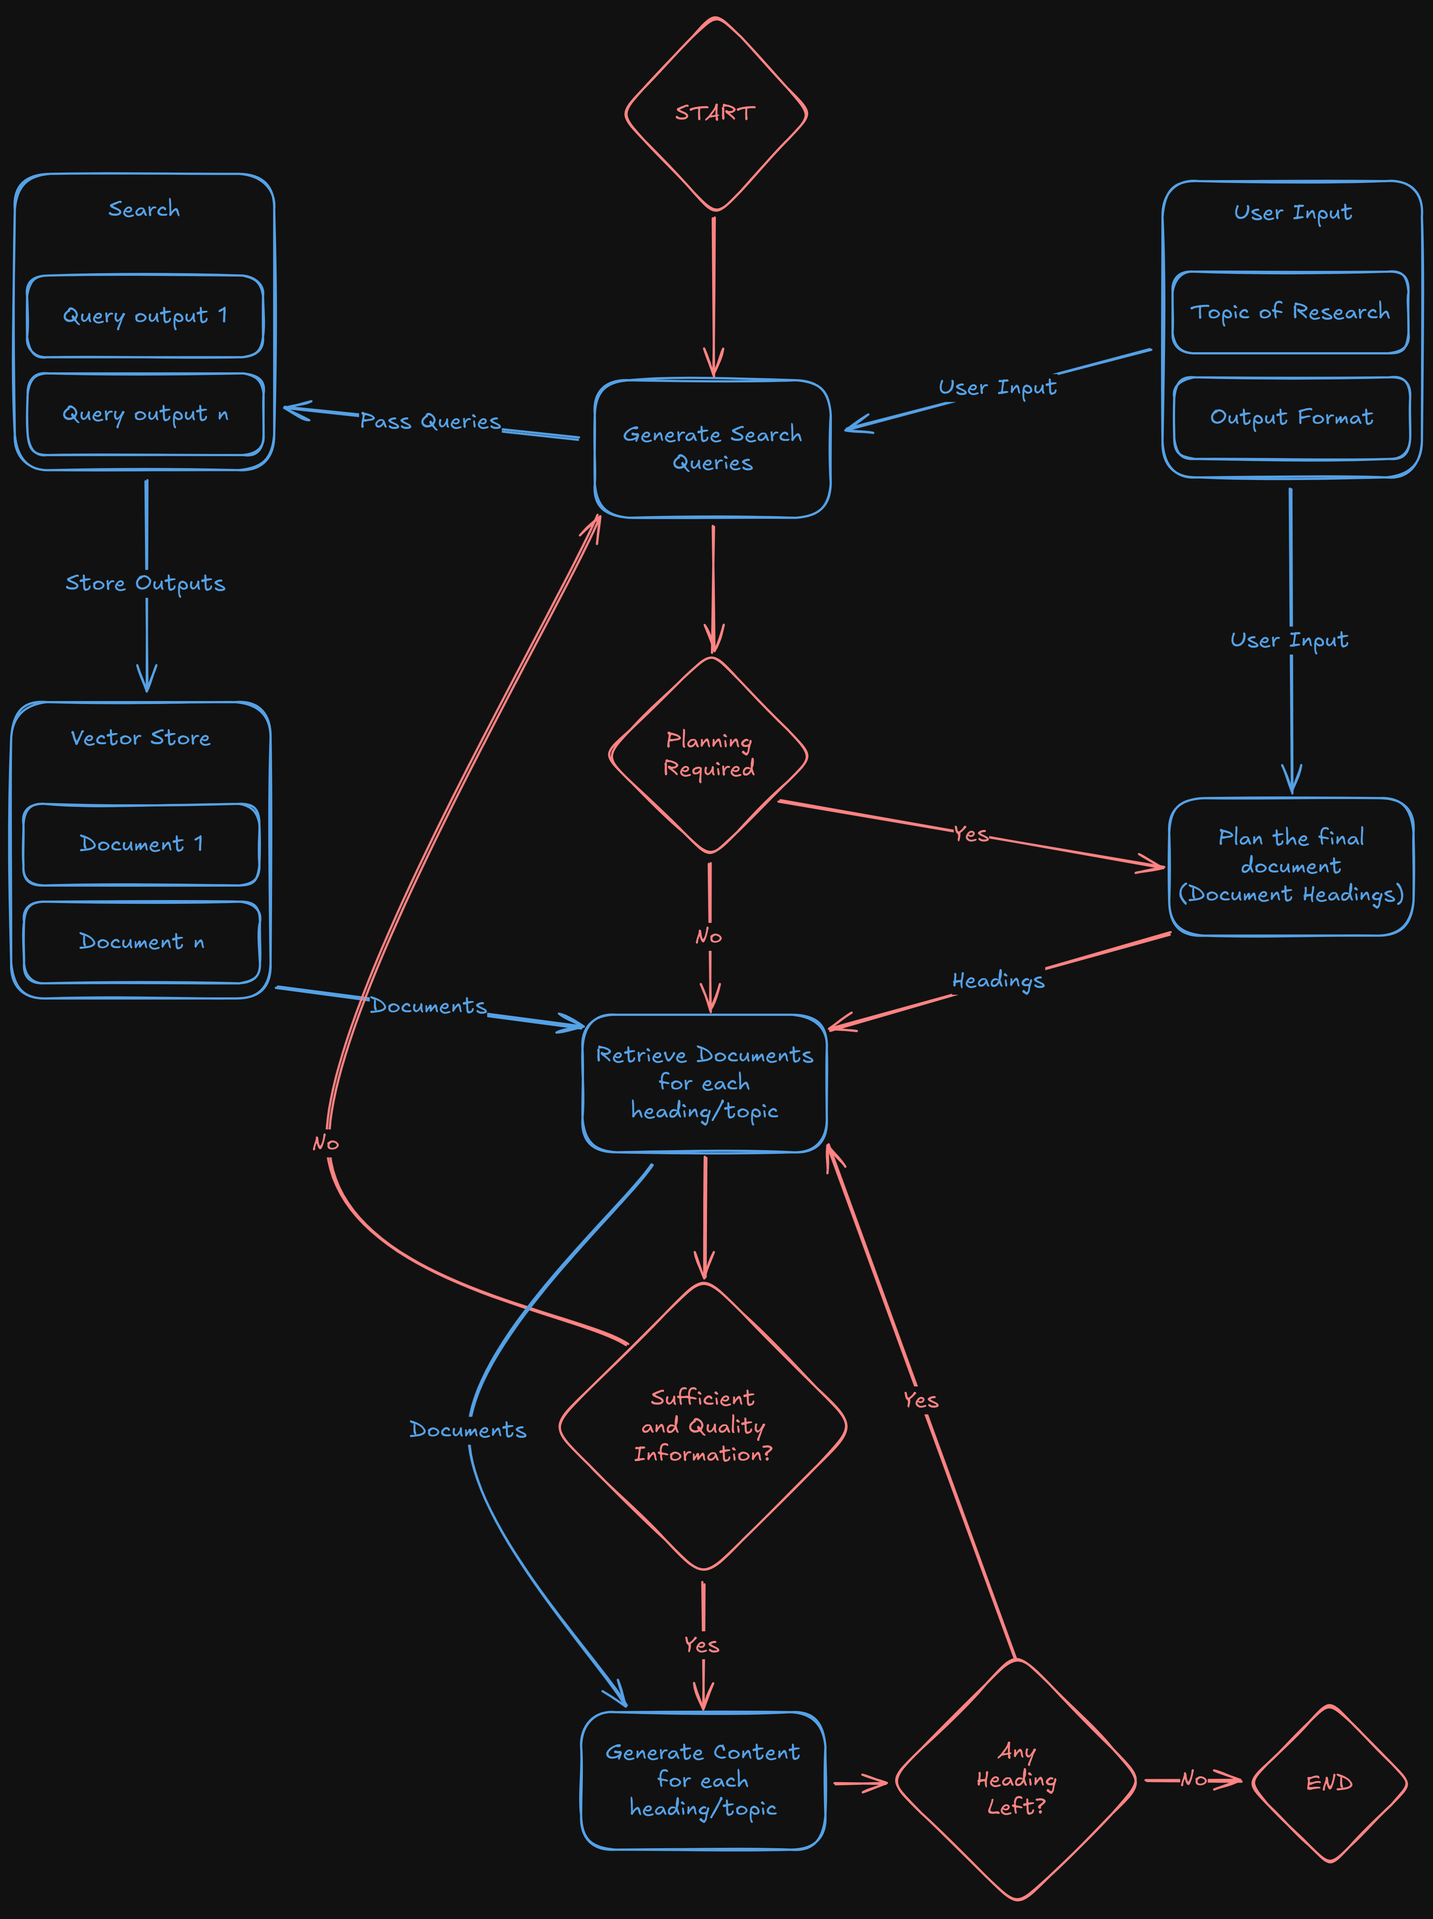
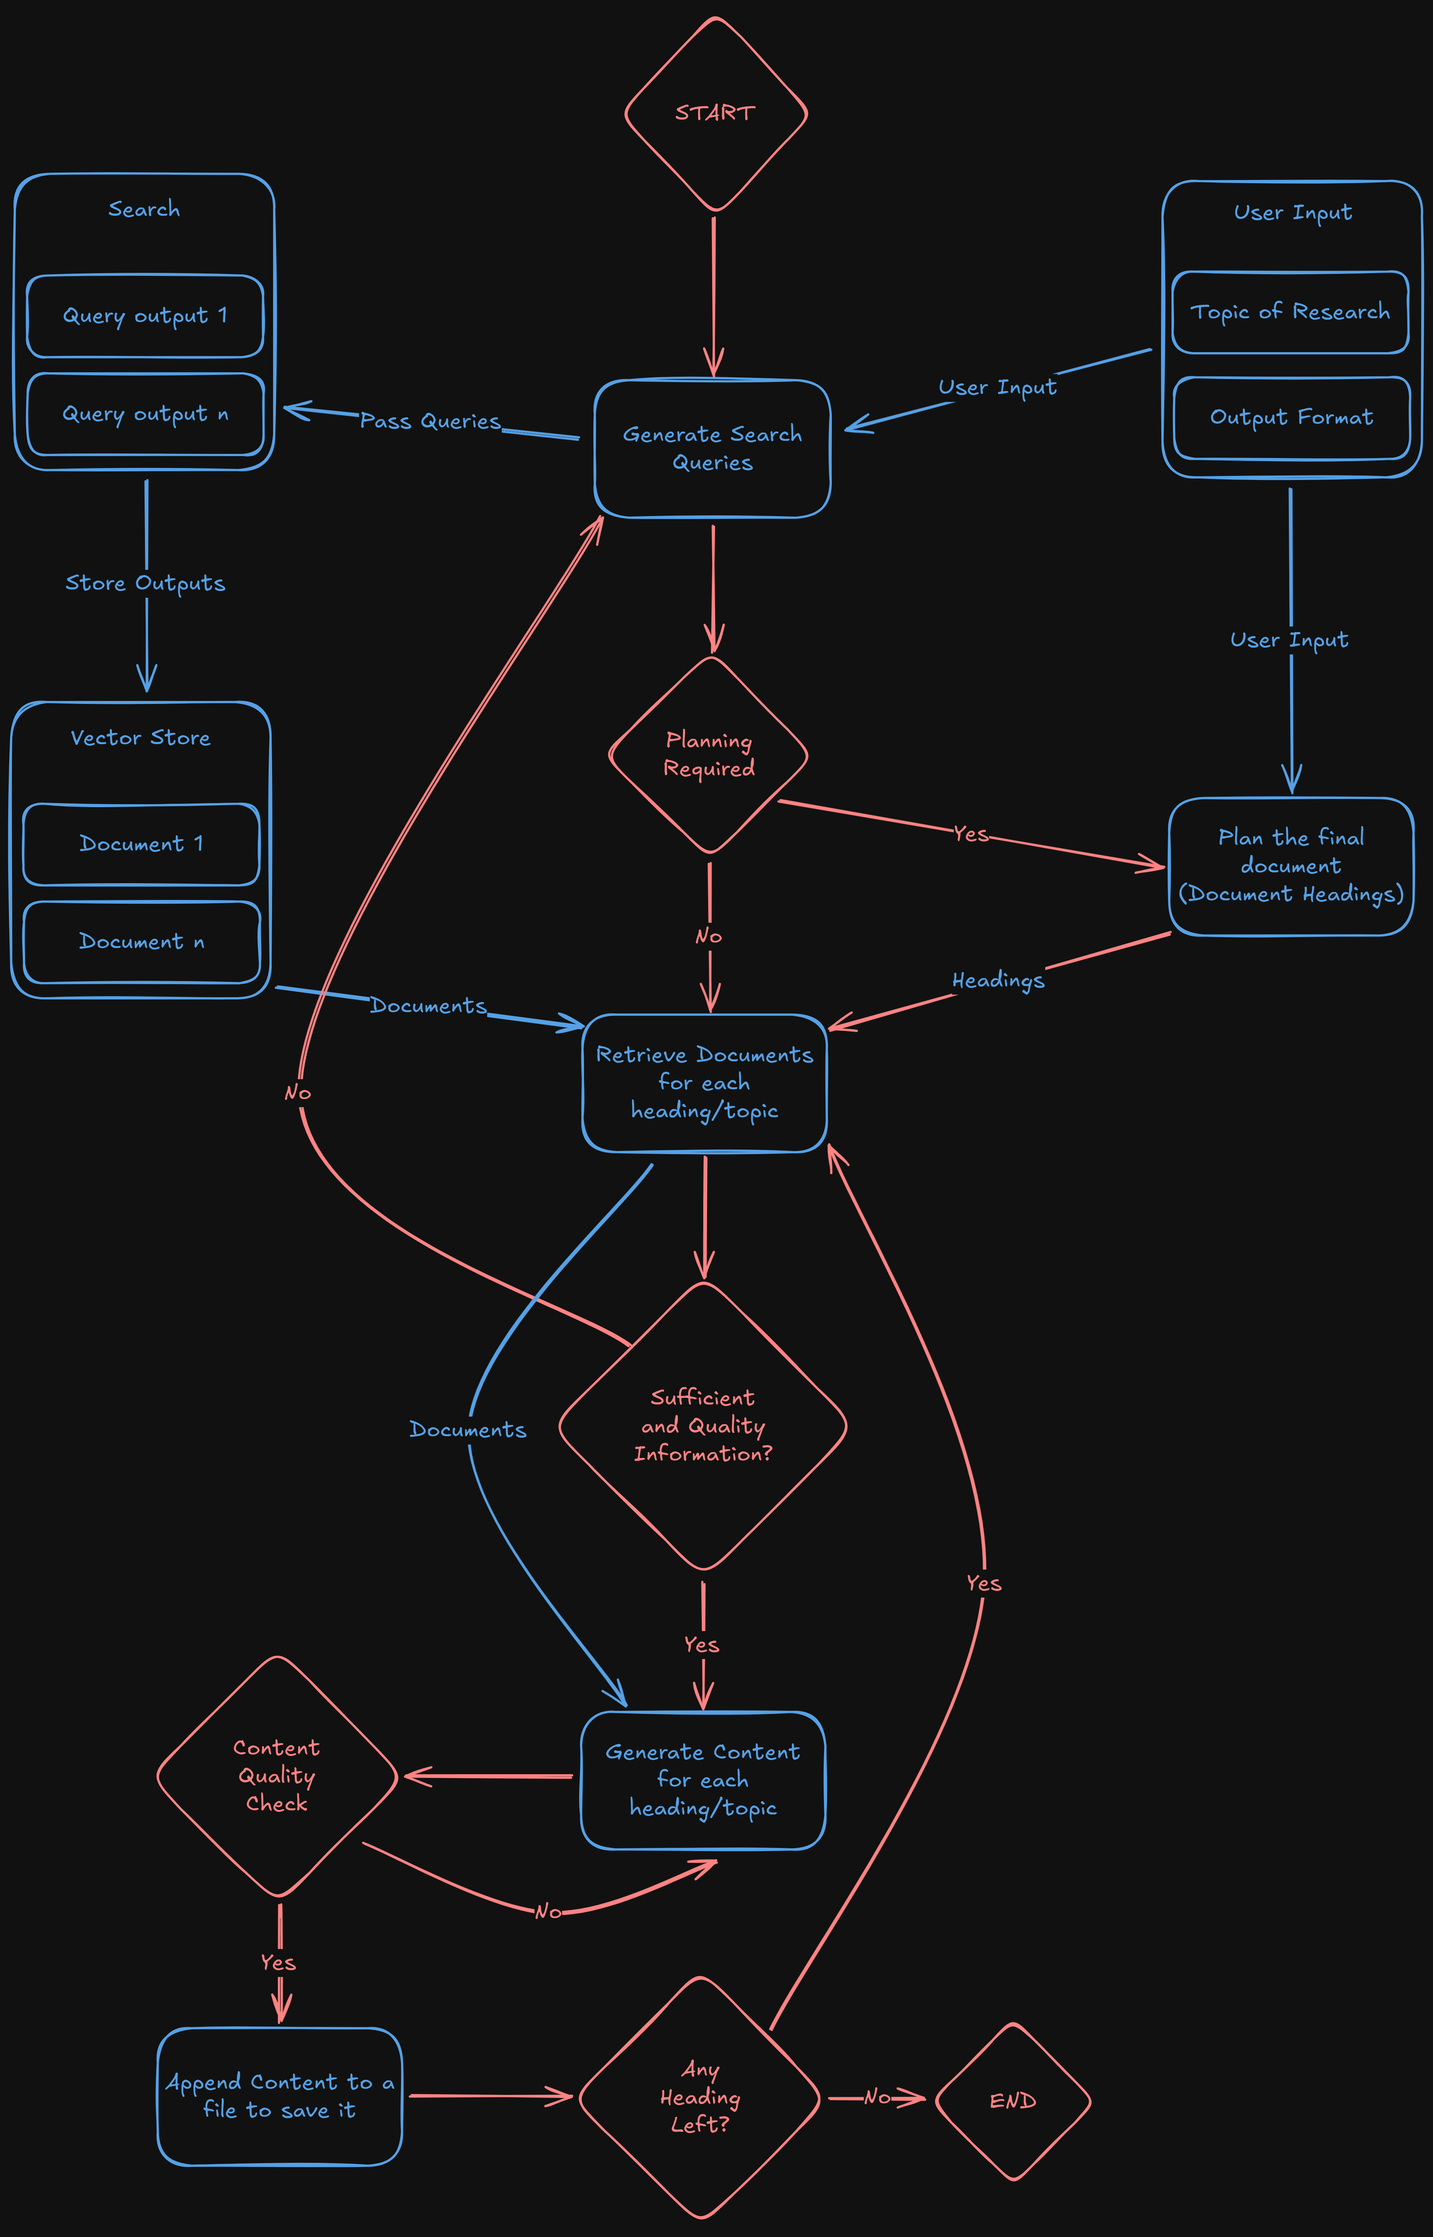
Update final graph image, refactor main and graph classes for improved content handling and add new content writing functionality

diff --git a/nodes.py b/nodes.py
@@ -86,16 +86,18 @@ class Nodes:
         messages = [
             SystemMessage(
                 content = """You are an expert in generating search queries to gather information from vector stores which contain information about the given topic. Your job \
-                is to generate exactly 6 search queries on a given main topic and a specific heading or sub-heading or topic or sub-topic related to the given topic which will \
-                be a part of the final document. These vector store search queries should aim to gather maximum information about the main topic under the given heading or \
-                sub-heading or topic or sub-topic such that proper content can be generated based on that information for the given document type Note that same process will \
-                be repeated for other topics as well, so the vector store search queries must only focus on getting information which can be written under the give heading or \
-                sub-heading or topic or sub-topic for the given type of document.
-                Give the output as a list containing only these 6 vector store search queries as individual string elements, nothing else."""
+                is to generate exactly 10 search queries on a given main topic and a specific heading or sub-heading or topic or sub-topic related to the given topic which will \
+                be a part of the final document. These vector store search queries should aim to gather maximum information about the given heading or sub-heading or topic or \
+                sub-topic under the main topic such that proper content can be generated for the given heading or sub-heading or topic or sub-topic based on that information \
+                for the given document type. Note that same process will be repeated for other topics as well, so the vector store search queries must only focus on getting \
+                information which can be written under the given heading or sub-heading or topic or sub-topic for the given type of document. These queries have to be keywords \
+                or phrases which you are looking for, do not go for AND, OR, NOT operators in these queries, these queries are only supposed to be simple string values for \
+                which the search will be done. These strings will be used as it is for searching so the output should only be the search queries.
+                Give the output as a list containing only these 10 vector store search queries as individual string elements, nothing else."""
             ),
             HumanMessage(
-                content = f"""Give me the vector store search queries for the following main topic which should aim to gather information under the following heading or \
-                sub-heading or topic or sub-topic and the following document type:\
+                content = f"""Give me the vector store search queries for the following main topic which should aim to gather maximum important information under the following \
+                heading or sub-heading or topic or sub-topic and the following document type:\
                 
                 Main Topic: {topic}\
                 
@@ -106,16 +108,19 @@ class Nodes:
         ]
         return messages
     
-    def generate_content(self, topic: str, output_format: str, heading: str, information: str):
+    def generate_content(self, topic: str, plan: str, heading: str, information: str):
         messages = [
             SystemMessage(
-                content = f"""You are an expert in writing content for {output_format}. Your job is to write a part of a research document which is of the format \
-                {output_format}. You will be given the main topic of the document, the heading or sub-heading or topic or sub-topic under which you will have to write the \
-                content and the entire knowledge base which you have to refer while writing that content. Keep in mind that you strictly have to stick to the given heading or \
-                sub-heading or topic or sub-topic for which you have to write the content and whatever you write should be from the knowledge base given, do not make things up \
-                on your own and do not write things which are not in the given knowledge base. Keep in mind that this is a research document of {output_format} format so you \
-                have to write an extremely detailed, lengthy and accurate content which should completely be based on the knowledge base given. Use proper new line characters \
-                for new paragraphs and divide the content into paragraphs, do not give a single lengthy paragraph."""
+                content = f"""You are an expert in writing content for research documents. Your job is to write a part of a research document in extreme detail and accuracy. \
+                You will be given the main topic of the document, the structure of the document which will be a list of all the headings and sub-headings of the document, the \
+                heading or sub-heading under which you will have to write the content and the entire knowledge base which you have to refer while writing that content. Keep in \
+                mind that you strictly have to stick to the mentioned heading or sub-heading for which you have to write the content and whatever you write should be from the \
+                knowledge base given, do not make things up on your own and do not write things which are not in the given knowledge base. Keep in mind that this is a research \
+                document so you have to write an extremely detailed, lengthy and accurate content which should completely be based on the knowledge base given. Use proper new \
+                line characters for new paragraphs and divide the content into paragraphs, do not give a single lengthy paragraph. Do not use html tags like <p> or <h> or <ol> \
+                or <ul> or any kind of scripting language, the output should be simple text containing the heading and the detailed, lengthy, acurate, factual and paragraphed \
+                content. Remember to strictly follow the heading or sub-heading, you only have to write about that and focus on writing as much as possible on it. The given \
+                heading or sub-heading should be the heading for your generated content."""
             ),
             HumanMessage(
                 content = f"""Write the content for the researh document of the following main topic, following heading or Sub-heading or topic or sub-topic, with the \
@@ -123,11 +128,11 @@ class Nodes:
                 
                 Main Topic: {topic}\
                 
-                Heading or Sub-heading or topic or sub-topic: {heading}
+                Document Structure: {plan}\
+                
+                Heading or Sub-heading on which you have to generate content: {heading}\
 
-                Knowledge Base: {information}
-
-                Output Document: {output_format}"""
+                Knowledge Base: {information}"""
             )
         ]
         return messages
@@ -167,8 +172,8 @@ class Nodes:
                 content = f"""You are an expert in analysing whether the given knowledge base is good enough for a research document of the given main topic, given heading or \
                 sub-heading or topic or sub-topic and the given output document type. Your job is to analyse the knowledge base and tell if it is good enough or not based on \
                 the given the main topic of the document, the heading or sub-heading or topic or sub-topic and output document type. Keep in mind that this knowledge base will \
-                used to write the content under the given heading or sub-heading or topic or sub-topic in the future so if the knowledge base is not suffcient or doesn't have \
-                good quality or accurate information, then it should be changed.
+                be used to write the content under the given heading or sub-heading or topic or sub-topic in the future so if the knowledge base is not suffcient or doesn't \
+                have good quality or accurate information, then it should be changed.
                 Give the output as a boolean value where True means that the knowledge base is good enough to write the content based on it and False means that the knowledge \
                 base is not good enough and that improvements should be made to it before writing the content based on it."""
             ),
@@ -183,6 +188,36 @@ class Nodes:
                 Knowledge Base: {information}
 
                 Output Document: {output_format}"""
+            )
+        ]
+        return messages
+    
+    def content_check(self, topic: str, output_format: str, heading: str, information: str, content: str):
+        messages = [
+            SystemMessage(
+                content = f"""You are an expert in analysing whether the given content is good enough for a research document of the given main topic, given heading or \
+                sub-heading or topic or sub-topic, the knowledge base used to generate that content and the given output document type. Your job is to analyse the content and \
+                tell if it is good enough or not based on the given the main topic of the document, the heading or sub-heading or topic or sub-topic, the knowledge base used to \
+                generate that content and output document type. Keep in mind that this content will be a part of a very important research document and if it is not up to the \
+                mark with the quality of information or if there are any factual mistakes in the content based on the knowledge base given, then it should be changed. Also if \
+                the content doesn't have all the information which it should have based on the knowledge base or if the content is too short based on the given heading and the \
+                knowledge base, then it should be re-written
+                Give the output as a boolean value where True means that the content is good enough to be a part of the research document and False means that the content \
+                is not good enough and that improvements should be made to it before adding it to the research document."""
+            ),
+            HumanMessage(
+                content = f"""Analyse the content for the researh document of the following main topic, following heading or sub-heading or topic or sub-topic, following \
+                knowledge base with the following type of output document:\
+                
+                Main Topic: {topic}\
+                
+                Heading or Sub-heading or topic or sub-topic: {heading}
+
+                Knowledge Base: {information}
+
+                Output Document: {output_format}
+
+                Content to be analysed: {content}"""
             )
         ]
         return messages

diff --git a/graph.py b/graph.py
@@ -16,19 +16,36 @@ class GraphSchema(TypedDict):
     queries: Annotated[List[AnyMessage], operator.add]
     index: int
     documents: List[Document]
+    content: str
 
 class QuerySchema(TypedDict):
-    search_queries: List[str] = Field(description = "A list of all the search queries as individual elements which have to be used to search for information on the internet.", min_length = 10)
+    search_queries: List[str] = Field(
+        description = "A list of all the search queries as individual elements which have to be used to search for information on the internet.", 
+        min_length = 10
+    )
 
 class PlanSchema(TypedDict):
-    plan: List[str] = Field(description = "A list of all the headings, topics and sub-topics which are to be included in the final document and under which the entire content has to be organised.")
+    plan: List[str] = Field(
+        description = "A list of all the headings, topics and sub-topics which are to be included in the final document and under which the entire content has to be organised."
+    )
 
 class BooleanSchema(TypedDict):
-    check: bool = Field(description = "A boolean value given as output based on which further events occur.")
+    check: bool = Field(
+        description = "A boolean value given as output based on which further events occur."
+    )
 
 class ContentSchema(TypedDict):
-    heading: str = Field(description = "The heading, topic or sub-topic under which the content is being generated.")
-    content: str = Field(description = "The content which is being generated for the given heading, topic or sub-topic.")
+    heading: str = Field(
+        description = "The heading, topic or sub-topic under which the content is being generated."
+    )
+    content: str = Field(
+        description = "The content which is being generated for the given heading, topic or sub-topic."
+    )
+
+class SummarySchema(TypedDict):
+    summary: str = Field(
+        description = "The summary of the given part of the research document"
+    )
 
 class Graph:
 
@@ -40,6 +57,7 @@ class Graph:
         graph.add_node("plan_document", self.__plan_document)
         graph.add_node("retrieve_documents", self.__retrieve_documents)
         graph.add_node("generate_content", self.__generate_content)
+        graph.add_node("write_content", self.__write_content)
         graph.add_conditional_edges(
             "generate_search_queries",
             self.__planning_check,
@@ -52,6 +70,11 @@ class Graph:
         )
         graph.add_conditional_edges(
             "generate_content",
+            self.__content_check,
+            {True : "write_content", False : "generate_content"}
+        )
+        graph.add_conditional_edges(
+            "write_content",
             self.__heading_left_check,
             {True : "retrieve_documents", False : END}
         )
@@ -101,9 +124,17 @@ class Graph:
         for document in documents:
             information += f"\n{document.page_content}"
 
-        content = self.__model.with_structured_output(schema = ContentSchema, method = "json_schema").invoke(self.__nodes.generate_content(state["topic"], state["output_format"], state["plan"][state["index"]], information))
+        plan = str(state["plan"]).lstrip("[").rstrip("]").replace("'", "")
 
-        self.tools.write_in_file_tool(content["heading"] + "\n" + content["content"])
+        content = self.__model.with_structured_output(schema = ContentSchema, method = "json_schema").invoke(self.__nodes.generate_content(state["topic"], plan, state["output_format"], information))
+
+        return {"content" : content["heading"] + "\n" + content["content"]}
+    
+    def __write_content(self, state: GraphSchema):
+        
+        content = state["content"]
+
+        self.tools.write_in_file_tool(content)
 
         index = state["index"]
 
@@ -125,6 +156,13 @@ class Graph:
             state["topic"] = state["plan"][state["index"]]
         
         return info_check
+    
+    def __content_check(self, state: GraphSchema) -> bool:
+        information = ""
+        for document in state["documents"]:
+            information += f"\n{document.page_content}"
+
+        return self.__model.with_structured_output(schema = BooleanSchema, method = "json_schema").invoke(self.__nodes.content_check(state["topic"], state["output_format"], state["plan"][state["index"]], information, state["content"]))["check"]
 
     def __heading_left_check(self, state: GraphSchema) -> bool:
         return state["index"] < len(state["plan"])

diff --git a/main.py b/main.py
@@ -1,7 +1,7 @@
 from dotenv import load_dotenv
 load_dotenv()
 
-from langchain_groq import ChatGroq
+# from langchain_groq import ChatGroq
 from langchain_ollama import ChatOllama
 from langchain_core.callbacks import CallbackManager, StreamingStdOutCallbackHandler
 
@@ -14,11 +14,11 @@ model = ChatOllama(model = "llama3.2:3b-instruct-fp16",
                    num_batch = 512,
                    num_gpu=1)
 
-# model = ChatGroq(model = "deepseek-r1-distill-llama-70b", verbose = True, streaming = True)
+# model = ChatGroq(model = "llama-3.3-70b-versatile", verbose = True, streaming = True)
 
 agent = Graph(model)
 
-topic = "New Budget of India for 2025"
+topic = "Text Extraction and Recognition Algorithms"
 output_format = "professional report"
-print(agent.graph.invoke({"topic" : topic, "output_format" : output_format, "plan" : [], "index" : 0}))
+print(agent.graph.invoke({"topic" : topic, "output_format" : output_format, "plan" : [], "index" : 0}, {"recursion_limit" : 100}))
 agent.tools.close_tools()
